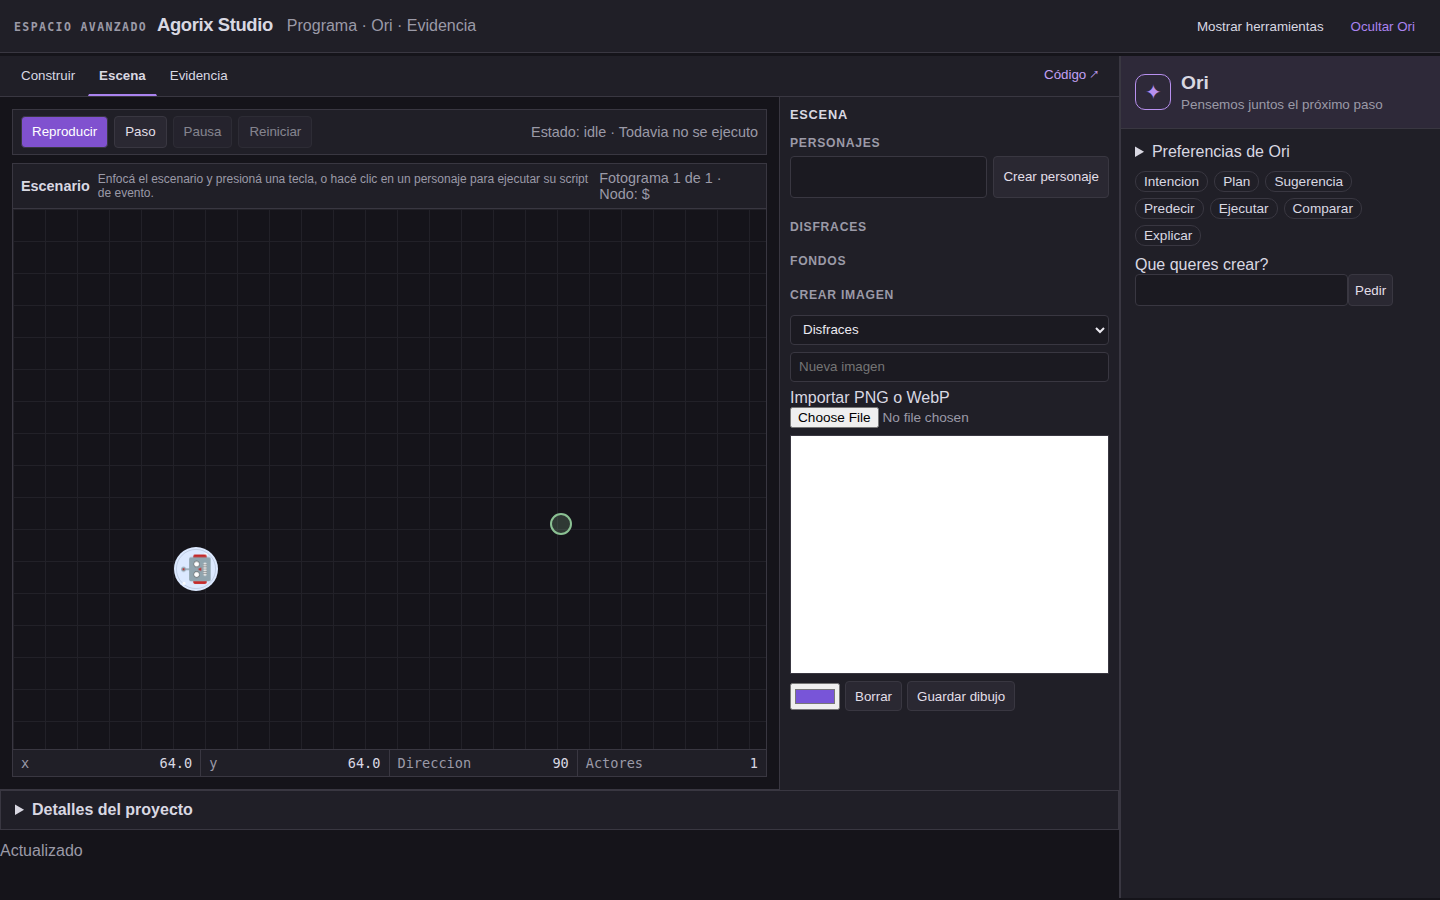
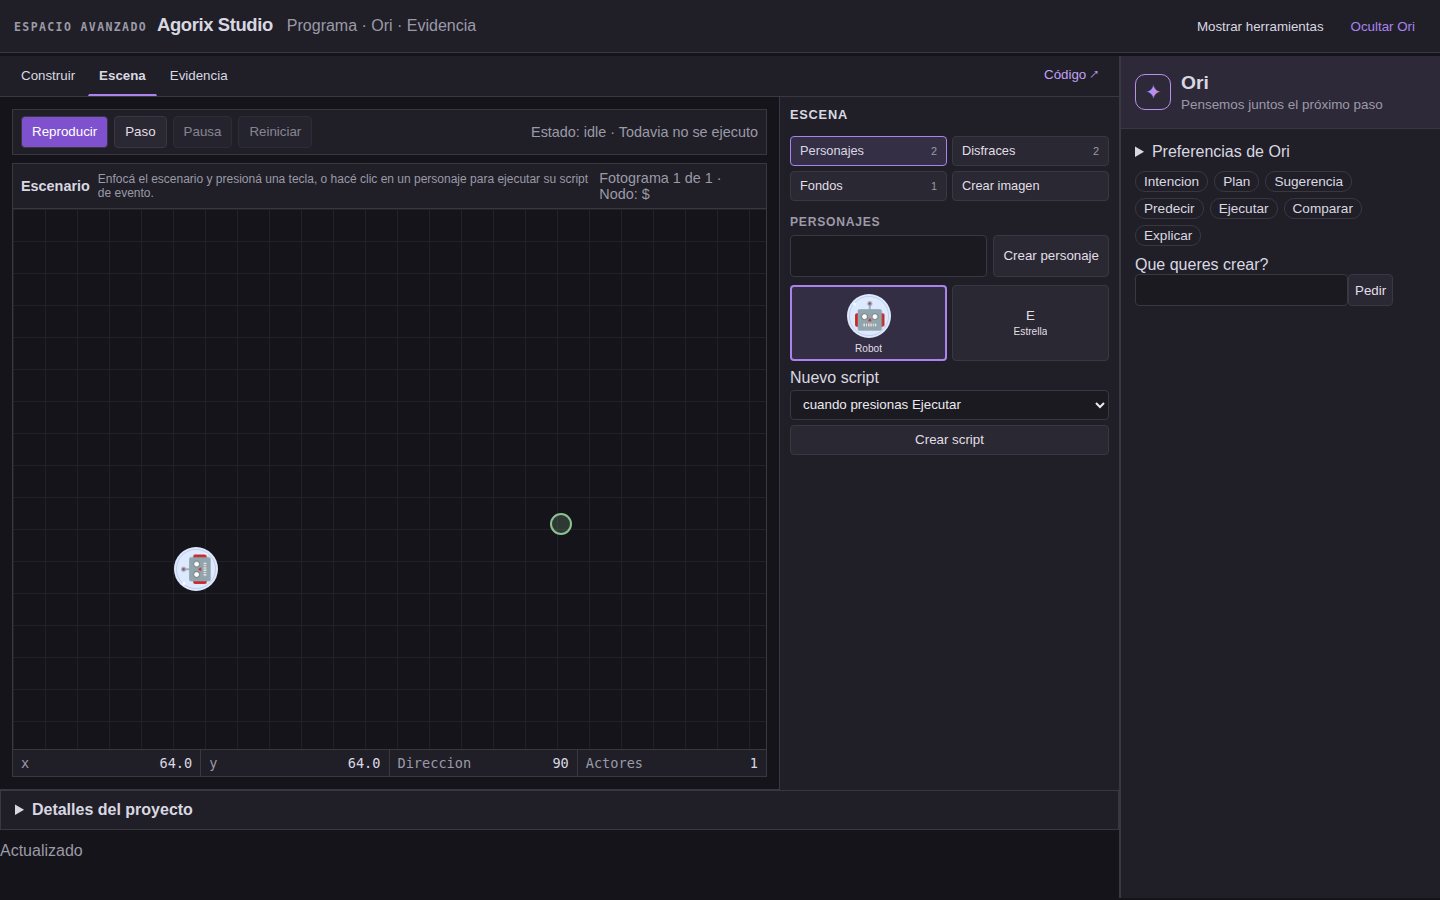
feat(studio): make scene assets navigable galleries

Changed region(s): [[0.5312, 0.1244, 0.7812, 0.8089], [0.6875, 0.28, 0.7812, 0.3111], [0.6875, 0.3422, 0.7188, 0.3733]]

diff --git a/packages/studio-ui/src/SceneLibrary.tsx b/packages/studio-ui/src/SceneLibrary.tsx
@@ -35,6 +35,9 @@ export function SceneLibrary({
 }) {
   const drawing = useRef<HTMLCanvasElement>(null);
   const [assetKind, setAssetKind] = useState<"costume" | "backdrop">("costume");
+  const [activeSection, setActiveSection] = useState<
+    "actors" | "costumes" | "backdrops" | "create"
+  >("actors");
   const [assetName, setAssetName] = useState("");
   const [assetError, setAssetError] = useState("");
   const [drawingActive, setDrawingActive] = useState(false);
@@ -51,6 +54,7 @@ export function SceneLibrary({
     }
     onImportAsset?.(assetKind, (name.trim() || copy.sceneNewImage).slice(0, 80), source);
     setAssetError("");
+    setActiveSection(assetKind === "costume" ? "costumes" : "backdrops");
   };
   const paint = (event: React.PointerEvent<HTMLCanvasElement>) => {
     if (!drawingActive) return;
@@ -82,7 +86,29 @@ export function SceneLibrary({
   };
   return (
     <div className="scene-library" aria-label={copy.libraryScene}>
-      <section aria-label={copy.sceneActors}>
+      <nav className="scene-section-tabs" aria-label={copy.libraryScene}>
+        {(
+          [
+            ["actors", copy.sceneActors, actors.length],
+            ["costumes", copy.sceneCostumes, costumes.length],
+            ["backdrops", copy.sceneBackdrops, backdrops.length],
+            ...(onImportAsset === undefined
+              ? []
+              : [["create", copy.sceneCreateImage, undefined] as const]),
+          ] as const
+        ).map(([section, label, count]) => (
+          <button
+            key={section}
+            type="button"
+            aria-pressed={activeSection === section}
+            onClick={() => setActiveSection(section)}
+          >
+            <span>{label}</span>
+            {count === undefined ? null : <small>{count}</small>}
+          </button>
+        ))}
+      </nav>
+      <section aria-label={copy.sceneActors} hidden={activeSection !== "actors"}>
         <h3>{copy.sceneActors}</h3>
         {onCreateActor === undefined ? null : (
           <form
@@ -188,7 +214,7 @@ export function SceneLibrary({
           </form>
         )}
       </section>
-      <section aria-label={copy.sceneCostumes}>
+      <section aria-label={copy.sceneCostumes} hidden={activeSection !== "costumes"}>
         <h3>
           {copy.sceneCostumes}
           {selected === undefined ? "" : ` · ${selected.name}`}
@@ -210,8 +236,20 @@ export function SceneLibrary({
             </button>
           ))}
         </div>
+        {onImportAsset === undefined ? null : (
+          <button
+            type="button"
+            className="scene-create-shortcut"
+            onClick={() => {
+              setAssetKind("costume");
+              setActiveSection("create");
+            }}
+          >
+            + {copy.sceneCreateImage}
+          </button>
+        )}
       </section>
-      <section aria-label={copy.sceneBackdrops}>
+      <section aria-label={copy.sceneBackdrops} hidden={activeSection !== "backdrops"}>
         <h3>{copy.sceneBackdrops}</h3>
         <div className="scene-library-grid">
           {backdrops.map((asset) => (
@@ -227,9 +265,25 @@ export function SceneLibrary({
             </button>
           ))}
         </div>
+        {onImportAsset === undefined ? null : (
+          <button
+            type="button"
+            className="scene-create-shortcut"
+            onClick={() => {
+              setAssetKind("backdrop");
+              setActiveSection("create");
+            }}
+          >
+            + {copy.sceneCreateImage}
+          </button>
+        )}
       </section>
       {onImportAsset === undefined ? null : (
-        <section aria-label={copy.sceneCreateImage} className="scene-create-image">
+        <section
+          aria-label={copy.sceneCreateImage}
+          className="scene-create-image"
+          hidden={activeSection !== "create"}
+        >
           <h3>{copy.sceneCreateImage}</h3>
           <select
             aria-label={copy.sceneImageKind}

diff --git a/packages/studio-ui/src/styles.ts b/packages/studio-ui/src/styles.ts
@@ -226,6 +226,13 @@ body { margin: 0; font-family: var(--vscode-font-family); color: var(--vscode-fo
 .library-tabs button[aria-pressed="true"] { border-color: var(--vscode-focusBorder); background: color-mix(in srgb, var(--vscode-focusBorder), transparent 78%); color: var(--vscode-foreground); font-weight: 700; }
 .library-tabs button:focus-visible, .scene-library button:focus-visible { outline: 2px solid var(--vscode-focusBorder); outline-offset: 2px; }
 .scene-library { display: grid; gap: 14px; }
+.scene-library > section[hidden] { display: none; }
+.scene-section-tabs { display: grid; grid-template-columns: repeat(2, minmax(0, 1fr)); gap: 5px; }
+.scene-section-tabs button { display: flex; justify-content: space-between; align-items: center; gap: 4px; min-width: 0; min-height: 34px; padding: 5px 8px; text-align: left; font-size: 0.8em; }
+.scene-section-tabs button[aria-pressed="true"] { color: var(--vscode-foreground); border-color: var(--vscode-focusBorder); background: color-mix(in srgb, var(--vscode-focusBorder), transparent 84%); }
+.scene-section-tabs small { color: var(--vscode-descriptionForeground); font-size: 0.85em; }
+.scene-section-tabs button:focus-visible { outline: 2px solid var(--vscode-focusBorder); outline-offset: 2px; }
+.scene-create-shortcut { width: 100%; margin-top: 8px; border-style: dashed !important; }
 .scene-create-script { display: grid; gap: 5px; margin-top: 8px; }
 .scene-create-script label { display: grid; gap: 3px; }
 .scene-create-image { display: grid; gap: 7px; }

diff --git a/packages/studio-ui/src/canvas.a11y.test.tsx b/packages/studio-ui/src/canvas.a11y.test.tsx
@@ -1226,6 +1226,30 @@ describe("workbench live region and focus after inserting from the palette", () 
     expect(host.querySelector<HTMLElement>(".studio-program")?.hidden).toBe(true);
     expect(host.querySelector<HTMLElement>(".studio-details")?.hidden).toBe(false);
     expect(host.querySelector<HTMLElement>(".studio-scene-editor")?.hidden).toBe(false);
+    const sceneTabs = host.querySelector<HTMLElement>(".studio-scene-editor .scene-section-tabs")!;
+    expect(sceneTabs.querySelectorAll("button")).toHaveLength(4);
+    expect(
+      host.querySelector<HTMLElement>(".studio-scene-editor .scene-create-actor")?.hidden,
+    ).not.toBe(true);
+    act(() => sceneTabs.querySelectorAll<HTMLButtonElement>("button")[1]!.click());
+    expect(
+      host.querySelector<HTMLElement>('.studio-scene-editor section[aria-label="Disfraces"]')
+        ?.hidden,
+    ).toBe(false);
+    expect(
+      host.querySelector<HTMLElement>('.studio-scene-editor section[aria-label="Personajes"]')
+        ?.hidden,
+    ).toBe(true);
+    act(() =>
+      host.querySelector<HTMLButtonElement>(".studio-scene-editor .scene-create-shortcut")!.click(),
+    );
+    expect(
+      host.querySelector<HTMLElement>(".studio-scene-editor .scene-create-image")?.hidden,
+    ).toBe(false);
+    expect(
+      host.querySelector<HTMLSelectElement>(".studio-scene-editor .scene-create-image select")
+        ?.value,
+    ).toBe("costume");
     expect(shell.dataset.toolsOpen).toBe("false");
     expect(
       host

diff --git a/packages/studio-ui/src/components.test.tsx b/packages/studio-ui/src/components.test.tsx
@@ -81,7 +81,7 @@ describe("studio-ui", () => {
     expect(markup).toContain("Disfraces");
     expect(markup).toContain("Fondos");
     expect(markup.match(/<img/g)).toHaveLength(3);
-    expect(markup.match(/aria-pressed="true"/g)).toHaveLength(3);
+    expect(markup.match(/aria-pressed="true"/g)).toHaveLength(4);
   });
   it("renders shared gallery art and rejects remote or unknown image sources", () => {
     const costume = {

diff --git a/docs/product/STUDIO_VISUAL_WORKSPACE.md b/docs/product/STUDIO_VISUAL_WORKSPACE.md
@@ -1,4 +1,4 @@
-# Studio visual workspace — first slice of #1694
+# Studio visual workspace — #1694
 
 Studio is an IDE for advanced learners. Its layout follows the editor-centered structure of Kiro: a compact tool area, a dominant working editor, and a persistent assistant dock. The content remains Agorix-specific: canonical blocks, deterministic stage and evidence, and Ori as a learning companion.
 
@@ -13,15 +13,18 @@ Studio is an IDE for advanced learners. Its layout follows the editor-centered s
 
 Tools and Ori can each be hidden from the header without discarding the current workbench state. The center tabs switch views without creating a second program model. At 900 × 700 the Scene tools sit beside the stage; at 1440 × 900 the editor has additional room. Below 700 px the Scene tools stack under the stage. All colors use VS Code theme tokens.
 
+The Scene editor now groups actors, costumes, backdrops and image creation into visible tabs. Counts show available objects, selected cards show the current actor or asset, and a shortcut in costume/backdrop galleries opens image creation with the matching type selected. Switching galleries preserves the drawing canvas and current form state.
+
 ## Review captures
 
-These captures use a local synthetic host with a sample canonical program and runtime frame. They show layout at the target viewport sizes, not a full VSIX journey.
+These captures use a local synthetic host with a sample canonical program, two actors, assets and a runtime frame. They show layout at the target viewport sizes, not a full VSIX journey.
 
-| View  | 900 × 700                                                | 1440 × 900                                                 |
-| ----- | -------------------------------------------------------- | ---------------------------------------------------------- |
-| Build | ![Build at 900](./assets/studio-workspace-build-900.png) | ![Build at 1440](./assets/studio-workspace-build-1440.png) |
-| Scene | ![Scene at 900](./assets/studio-workspace-scene-900.png) | ![Scene at 1440](./assets/studio-workspace-scene-1440.png) |
+| View     | 900 × 700                                                      | 1440 × 900                                                       |
+| -------- | -------------------------------------------------------------- | ---------------------------------------------------------------- |
+| Build    | ![Build at 900](./assets/studio-workspace-build-900.png)       | ![Build at 1440](./assets/studio-workspace-build-1440.png)       |
+| Scene    | ![Scene at 900](./assets/studio-workspace-scene-900.png)       | ![Scene at 1440](./assets/studio-workspace-scene-1440.png)       |
+| Costumes | ![Costumes at 900](./assets/studio-workspace-costumes-900.png) | ![Costumes at 1440](./assets/studio-workspace-costumes-1440.png) |
 
 ## Follow-up within #1694
 
-The next slice should replace the remaining basic forms in the Scene editor with visual asset cards and a drawing toolbar, then verify the whole journey in a real VSIX: choose a character, edit a costume, drag a block, run the stage, ask Ori, and inspect evidence. Ori's proposals must continue through learner preview and explicit acceptance before canonical mutation.
+The next slice should give the image creation area a stronger drawing toolbar and verify the whole journey in a real VSIX: choose a character, edit a costume, drag a block, run the stage, ask Ori, and inspect evidence. Ori's proposals must continue through learner preview and explicit acceptance before canonical mutation.
